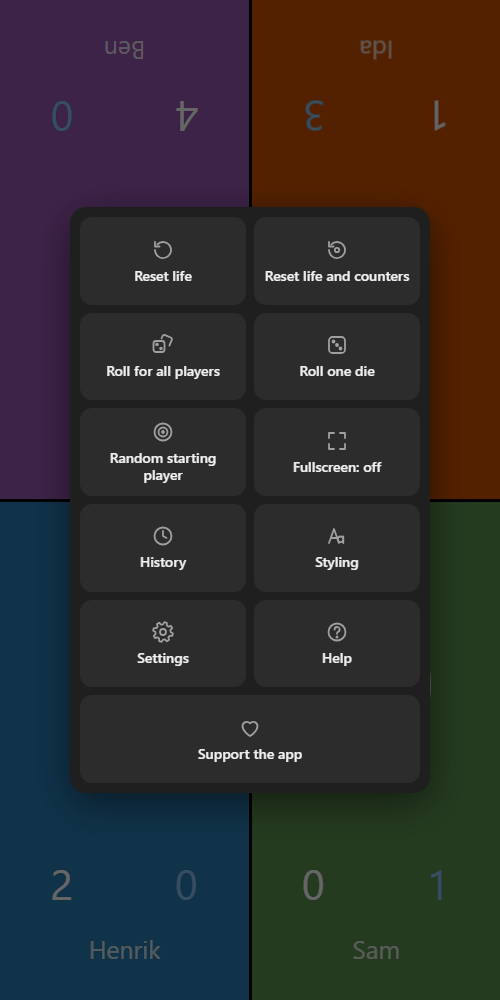
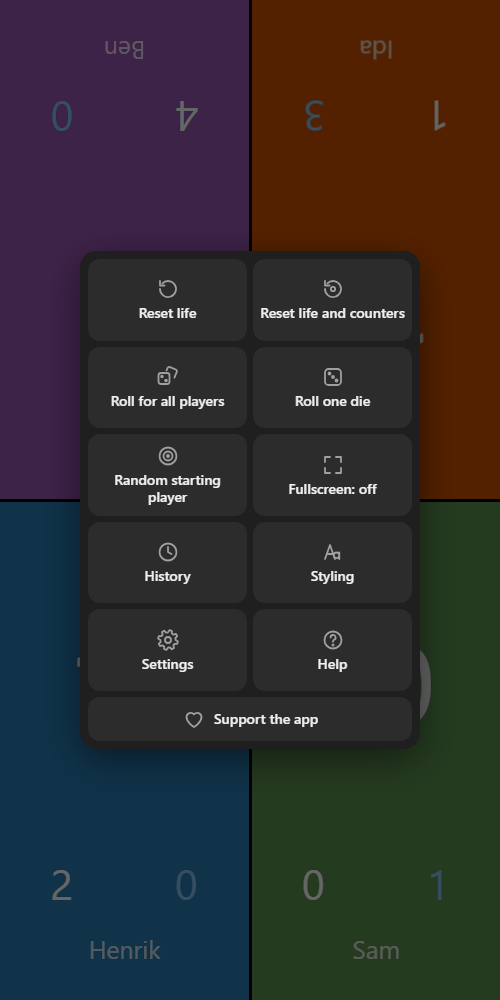
Smaller menu: tighter tiles and a slim Support row

diff --git a/css/style.css b/css/style.css
@@ -375,14 +375,15 @@ button {
 
 /* Menu */
 
-/* Two equal columns of tiles; every row is as tall as the tallest tile, so all tiles match. */
+/* Two equal columns of tiles in five rows, each as tall as the tallest tile, so all tiles match;
+   then a slim Support row. */
 .menu {
   display: grid;
   grid-template-columns: 1fr 1fr;
-  grid-auto-rows: 1fr;
-  gap: 8px;
-  width: min(88vw, 360px);
-  padding: 10px;
+  grid-template-rows: repeat(5, 1fr) auto;
+  gap: 6px;
+  width: min(86vw, 340px);
+  padding: 8px;
 }
 
 .menu-item {
@@ -390,9 +391,8 @@ button {
   flex-direction: column;
   align-items: center;
   justify-content: center;
-  gap: 6px;
-  min-height: 78px;
-  padding: 10px 8px;
+  gap: 4px;
+  padding: 8px 4px;
   border: 2px solid transparent;
   border-radius: 12px;
   background: var(--panel-raised);
@@ -408,6 +408,13 @@ button {
 
 .menu-item.wide {
   grid-column: span 2;
+}
+
+/* Icon beside the label, for the last row. */
+.menu-item.slim {
+  flex-direction: row;
+  gap: 8px;
+  padding: 8px;
 }
 
 /* Fullscreen when switched on. */

diff --git a/js/menu.js b/js/menu.js
@@ -93,7 +93,7 @@ export function openMenu() {
   );
   if (PAYPAL_URL) {
     const support = tile('support', 'Support the app', () => open(PAYPAL_URL, '_blank', 'noopener'));
-    support.classList.add('wide');
+    support.classList.add('wide', 'slim');
     tiles.push(support);
   }
   panel.append(...tiles);

diff --git a/sw.js b/sw.js
@@ -2,7 +2,7 @@
 // Bump VERSION whenever anything is published; that is how phones notice the update. Add new files
 // to FILES.
 
-const VERSION = 17;
+const VERSION = 18;
 const CACHE = `neckfors-life-counter-${VERSION}`;
 
 const FILES = [
